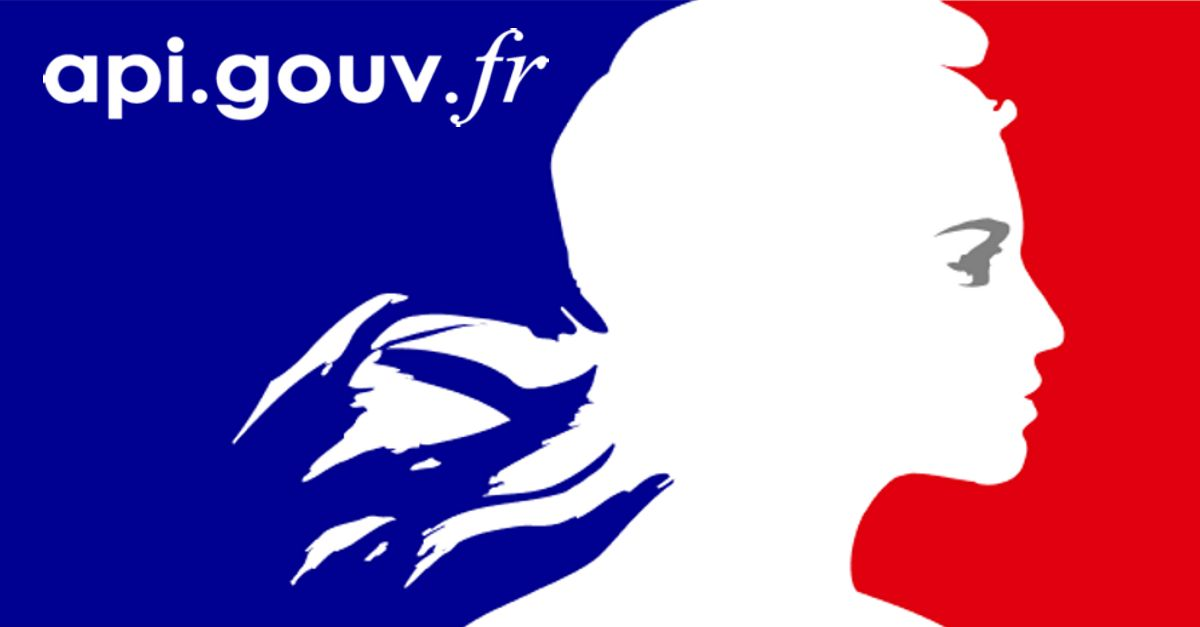
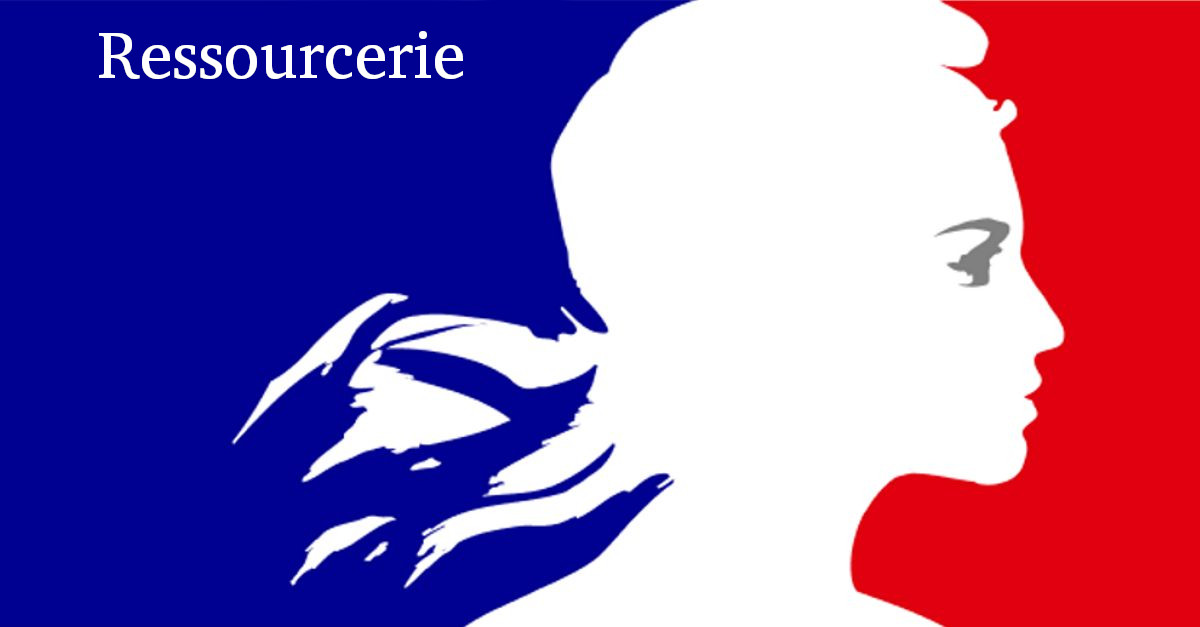
fix: SEO replace miniature and description

Changed region(s): [[0.0308, 0.0303, 0.4625, 0.2121]]

diff --git a/components/meta.tsx b/components/meta.tsx
@@ -24,7 +24,7 @@ const Meta: React.FC<IProps> = ({
   const SITE_NAME = 'Ressourcerie';
   const SITE_URL = process.env.SITE_URL || 'https://ressourcerie.fabrique.social.gouv.fr';
   const SITE_DESCRIPTION =
-    'Simplifiez le partage et la circulation des données administratives';
+    'La plateforme qui centralise toutes les ressources de la sphère travail.';
 
   return (
     <>
@@ -37,14 +37,14 @@ const Meta: React.FC<IProps> = ({
           locale: 'fr_FR',
           title: title || SITE_NAME,
           description: description || SITE_DESCRIPTION,
-          /*images: [
+          images: [
             {
               url: '/images/linkedin.jpg',
               width: 1200,
               height: 627,
               alt: 'ressourcerie.fabrique.social.gouv.fr',
             },
-          ],*/
+          ],
           site_name: SITE_NAME,
         }}
       />
